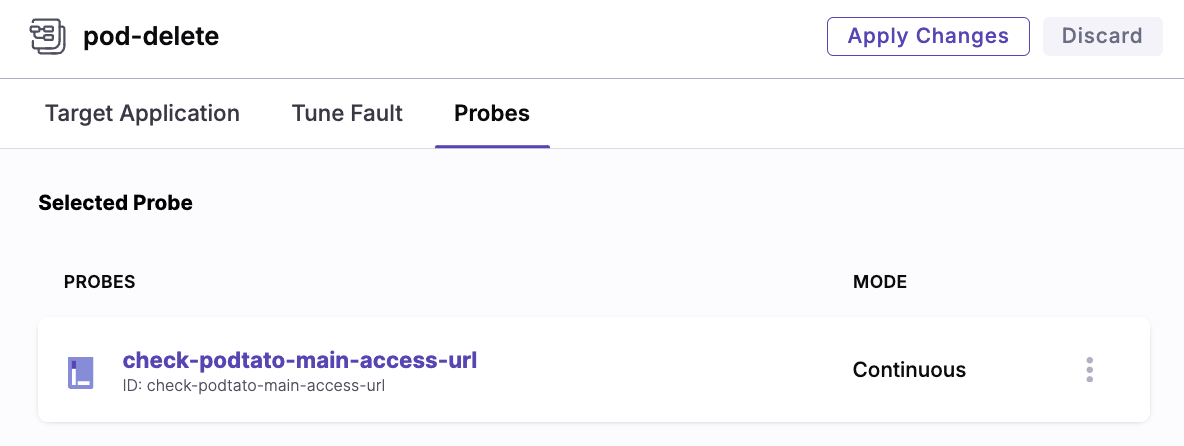
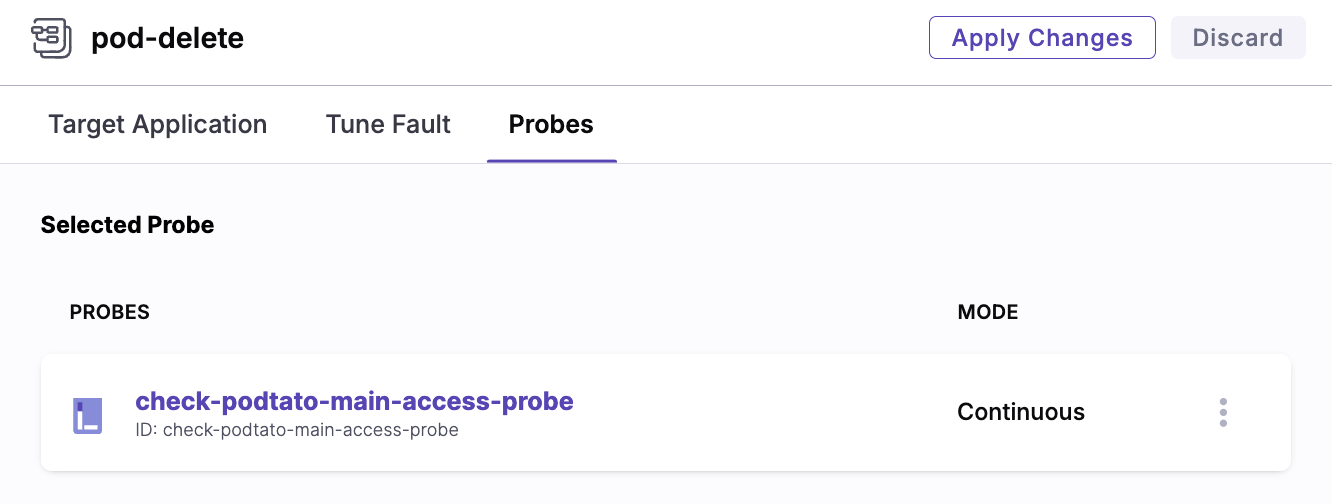
feat: update podtato-head tutorial

diff --git a/website/docs/tutorials/podtato-head.md b/website/docs/tutorials/podtato-head.md
@@ -8,7 +8,7 @@ sidebar_label: Podtato-head
 
 ![podtato-head](../assets/tutorials/podtato-head/podtato-head.png)
 
-In this tutorial, we will inject a pod-delete fault into a sample microservices application called [podtato-head](https://github.com/cncf/podtato-head) and verify if the service continues to be available during the chaos duration.
+In this tutorial, you will inject a pod-delete fault into a sample microservices application called [podtato-head](https://github.com/cncf/podtato-head) and verify if the service continues to be available during the chaos duration.
 
 ## Prerequisites
 
@@ -52,15 +52,16 @@ kubectl apply -f local-litmus-chaos-enable.yml
 ![connected](../assets/tutorials/podtato-head/connected.png)
 
 ## Set up Resilience Probe
-1. Select probe type as HTTP Probe
+
+1. Select HTTP Probe as the probe type
 
 2. Configure properties & probe details
-- Name: `check-podtato-main-access-url`
-- Timeout: `1s`
-- Interval: `100ms`
+- Name: `check-podtato-main-access-probe`
+- Timeout: `10s`
+- Interval: `1s`
 - Attempt: `1`
 - URL: `http://podtato-main.{{workflow.parameters.adminModeNamespace}}.svc.cluster.local:9000`
-- Method: `Get`
+- Method: `GET`
 - Criteria: `==`
 - Response Code: `200`
 
@@ -81,13 +82,33 @@ kubectl create rolebinding argo-chaos-binding --clusterrole=admin --serviceaccou
 
 ![podtato-head-template](../assets/tutorials/podtato-head/podtato-head-template.png)
 
-4. Add probe to `pod-delete` fault
-- Probe Name: `check-podtato-main-access-url`
+4. Add the new probe to `pod-delete` fault
+- Probe Name: `check-podtato-main-access-probe`
 - Mode: `Continuous`
 
 ![add-probe](../assets/tutorials/podtato-head/add-probe.png)
 
-5. Save and run the chaos experiment
+5. Remove the old probe section below from `podtato-head.yml`
+
+```yaml
+probe:
+- name: "check-podtato-main-access-url"
+    type: "httpProbe"
+    httpProbe/inputs:
+    url: "http://podtato-main.{{workflow.parameters.adminModeNamespace}}.svc.cluster.local:9000"
+    insecureSkipVerify: false
+    method:
+        get:
+        criteria: "=="
+        responseCode: "200"
+    mode: "Continuous"
+    runProperties:
+    probeTimeout: 1s
+    interval: 100ms
+    attempt: 1
+```
+
+6. Save and run the chaos experiment
 
 ## Check Chaos Experiment Results
 
@@ -99,5 +120,5 @@ kubectl create rolebinding argo-chaos-binding --clusterrole=admin --serviceaccou
 
 ---
 
-Great job! You've successfully completed this tutorial.   
-Ready for more? Explore additional tutorials and continue your exciting journey with LitmusChaos! 🚀
+Congratulations! 🎉 You've successfully completed the tutorial.  
+Continue exploring more tutorials to enjoy your journey with LitmusChaos! 🚀  

diff --git a/website/versioned_docs/version-3.12.0/tutorials/podtato-head.md b/website/versioned_docs/version-3.12.0/tutorials/podtato-head.md
@@ -8,7 +8,7 @@ sidebar_label: Podtato-head
 
 ![podtato-head](../assets/tutorials/podtato-head/podtato-head.png)
 
-In this tutorial, we will inject a pod-delete fault into a sample microservices application called [podtato-head](https://github.com/cncf/podtato-head) and verify if the service continues to be available during the chaos duration.
+In this tutorial, you will inject a pod-delete fault into a sample microservices application called [podtato-head](https://github.com/cncf/podtato-head) and verify if the service continues to be available during the chaos duration.
 
 ## Prerequisites
 
@@ -52,15 +52,16 @@ kubectl apply -f local-litmus-chaos-enable.yml
 ![connected](../assets/tutorials/podtato-head/connected.png)
 
 ## Set up Resilience Probe
-1. Select probe type as HTTP Probe
+
+1. Select HTTP Probe as the probe type
 
 2. Configure properties & probe details
-- Name: `check-podtato-main-access-url`
-- Timeout: `1s`
-- Interval: `100ms`
+- Name: `check-podtato-main-access-probe`
+- Timeout: `10s`
+- Interval: `1s`
 - Attempt: `1`
 - URL: `http://podtato-main.{{workflow.parameters.adminModeNamespace}}.svc.cluster.local:9000`
-- Method: `Get`
+- Method: `GET`
 - Criteria: `==`
 - Response Code: `200`
 
@@ -81,13 +82,33 @@ kubectl create rolebinding argo-chaos-binding --clusterrole=admin --serviceaccou
 
 ![podtato-head-template](../assets/tutorials/podtato-head/podtato-head-template.png)
 
-4. Add probe to `pod-delete` fault
-- Probe Name: `check-podtato-main-access-url`
+4. Add the new probe to `pod-delete` fault
+- Probe Name: `check-podtato-main-access-probe`
 - Mode: `Continuous`
 
 ![add-probe](../assets/tutorials/podtato-head/add-probe.png)
 
-5. Save and run the chaos experiment
+5. Remove the old probe section below from `podtato-head.yml`
+
+```yaml
+probe:
+- name: "check-podtato-main-access-url"
+    type: "httpProbe"
+    httpProbe/inputs:
+    url: "http://podtato-main.{{workflow.parameters.adminModeNamespace}}.svc.cluster.local:9000"
+    insecureSkipVerify: false
+    method:
+        get:
+        criteria: "=="
+        responseCode: "200"
+    mode: "Continuous"
+    runProperties:
+    probeTimeout: 1s
+    interval: 100ms
+    attempt: 1
+```
+
+6. Save and run the chaos experiment
 
 ## Check Chaos Experiment Results
 
@@ -99,5 +120,5 @@ kubectl create rolebinding argo-chaos-binding --clusterrole=admin --serviceaccou
 
 ---
 
-Great job! You've successfully completed this tutorial.   
-Ready for more? Explore additional tutorials and continue your exciting journey with LitmusChaos! 🚀
+Congratulations! 🎉 You've successfully completed the tutorial.  
+Continue exploring more tutorials to enjoy your journey with LitmusChaos! 🚀  
